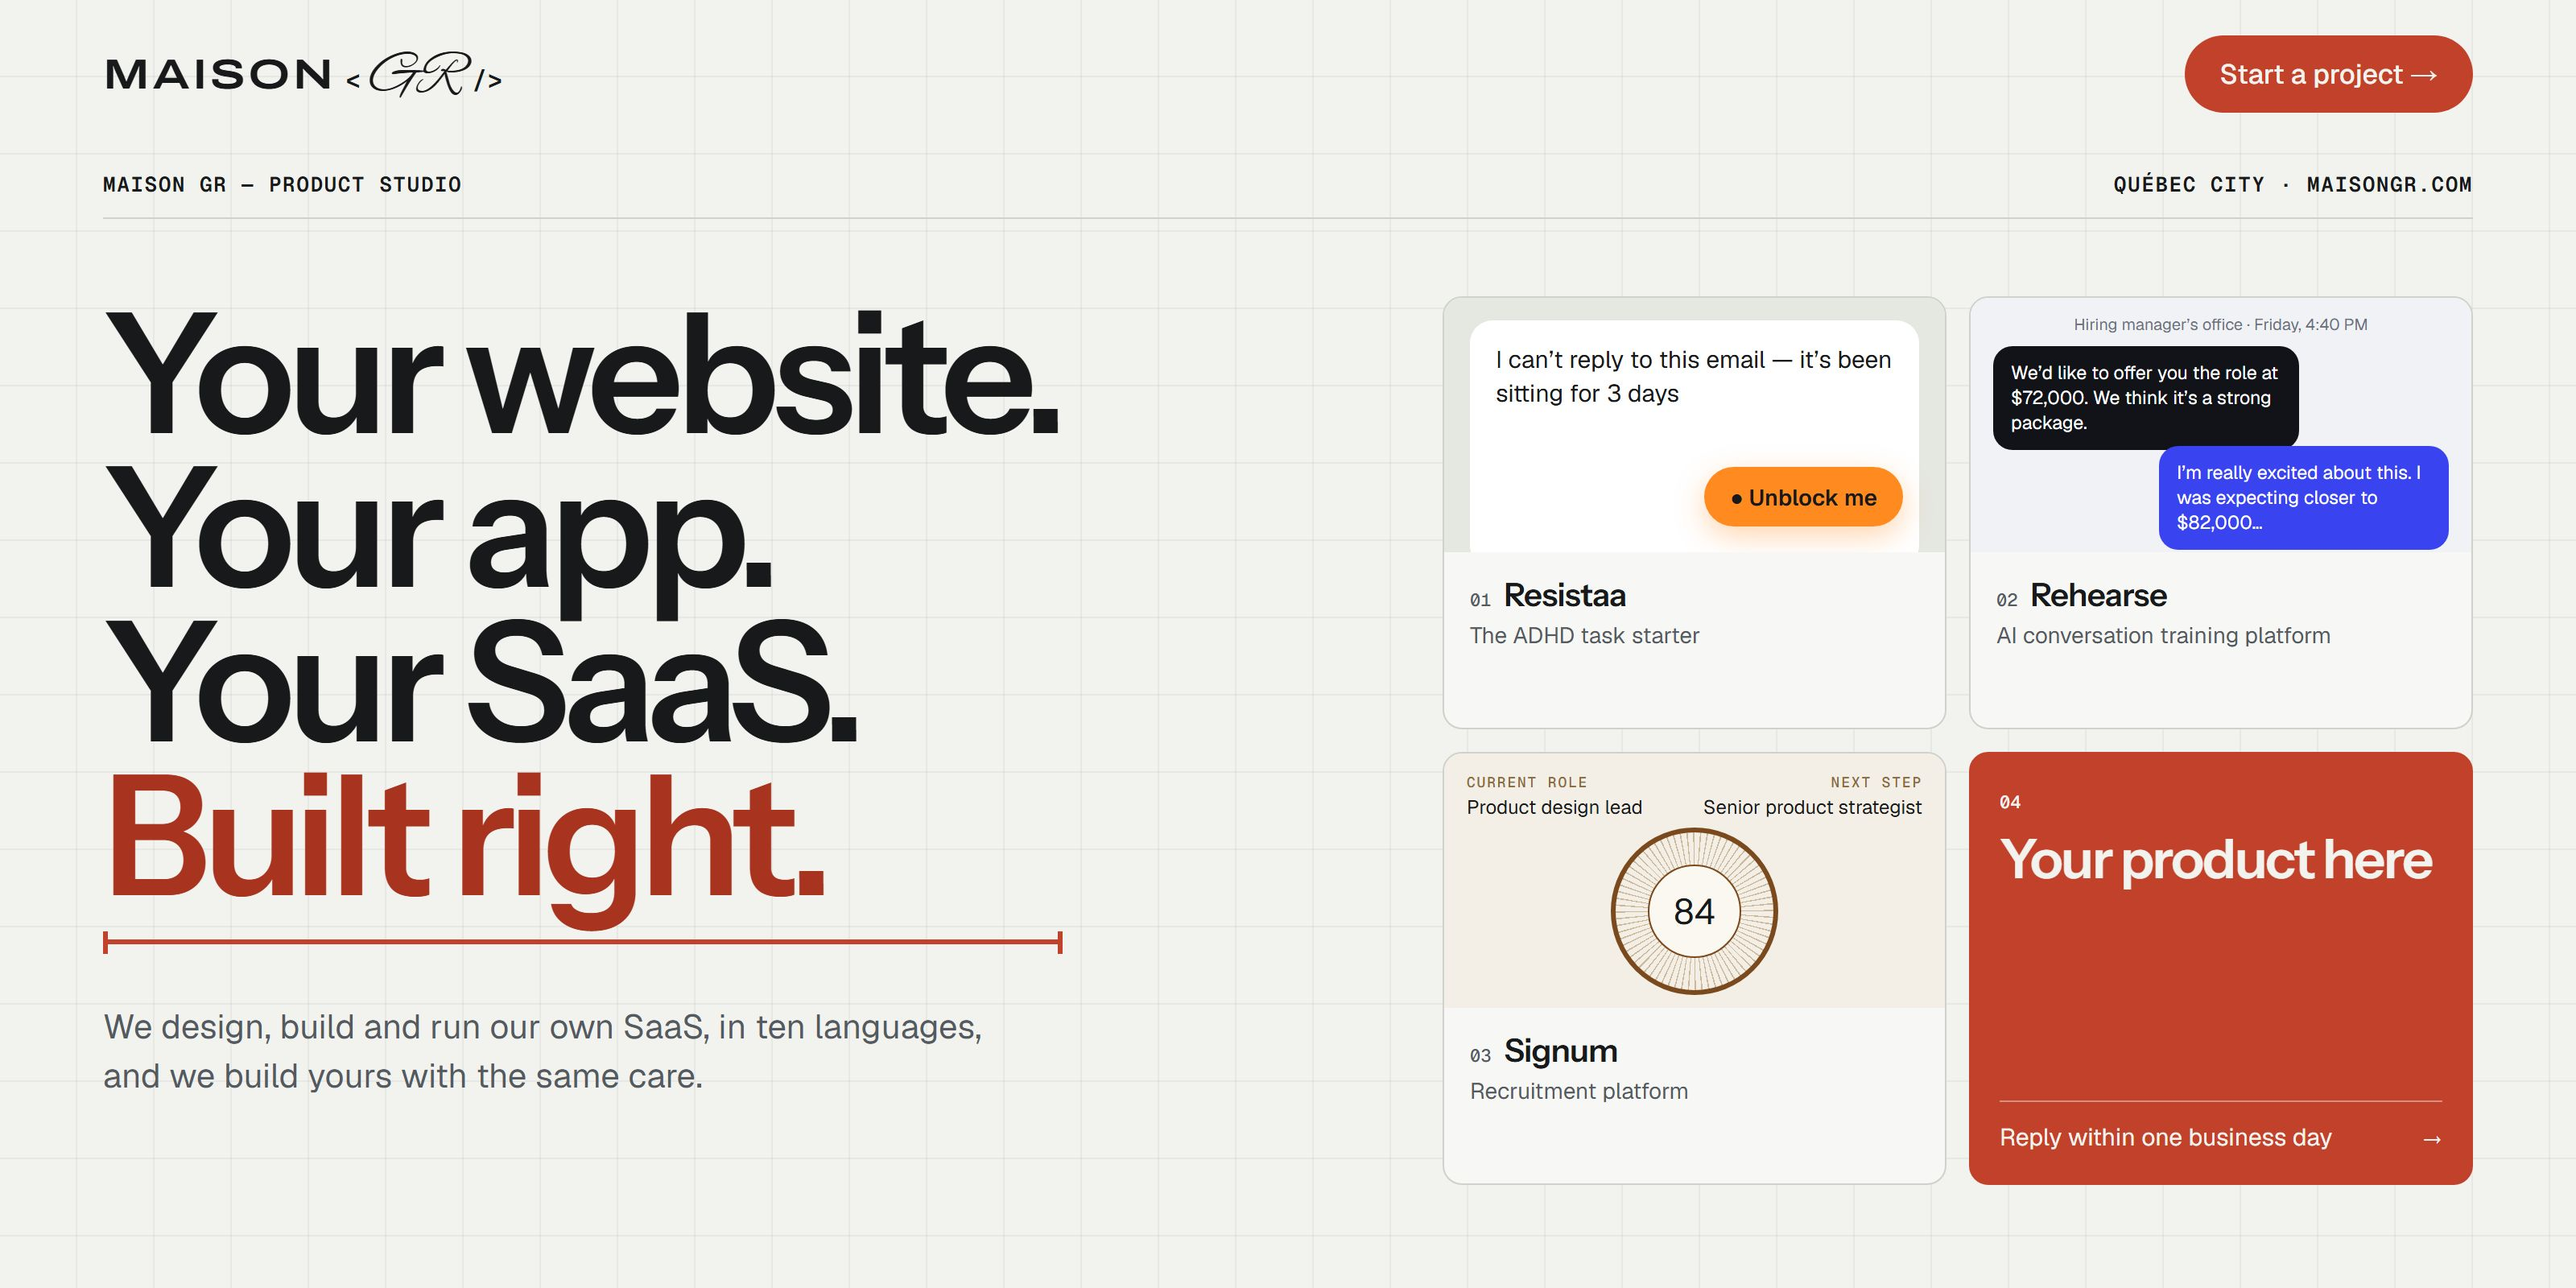
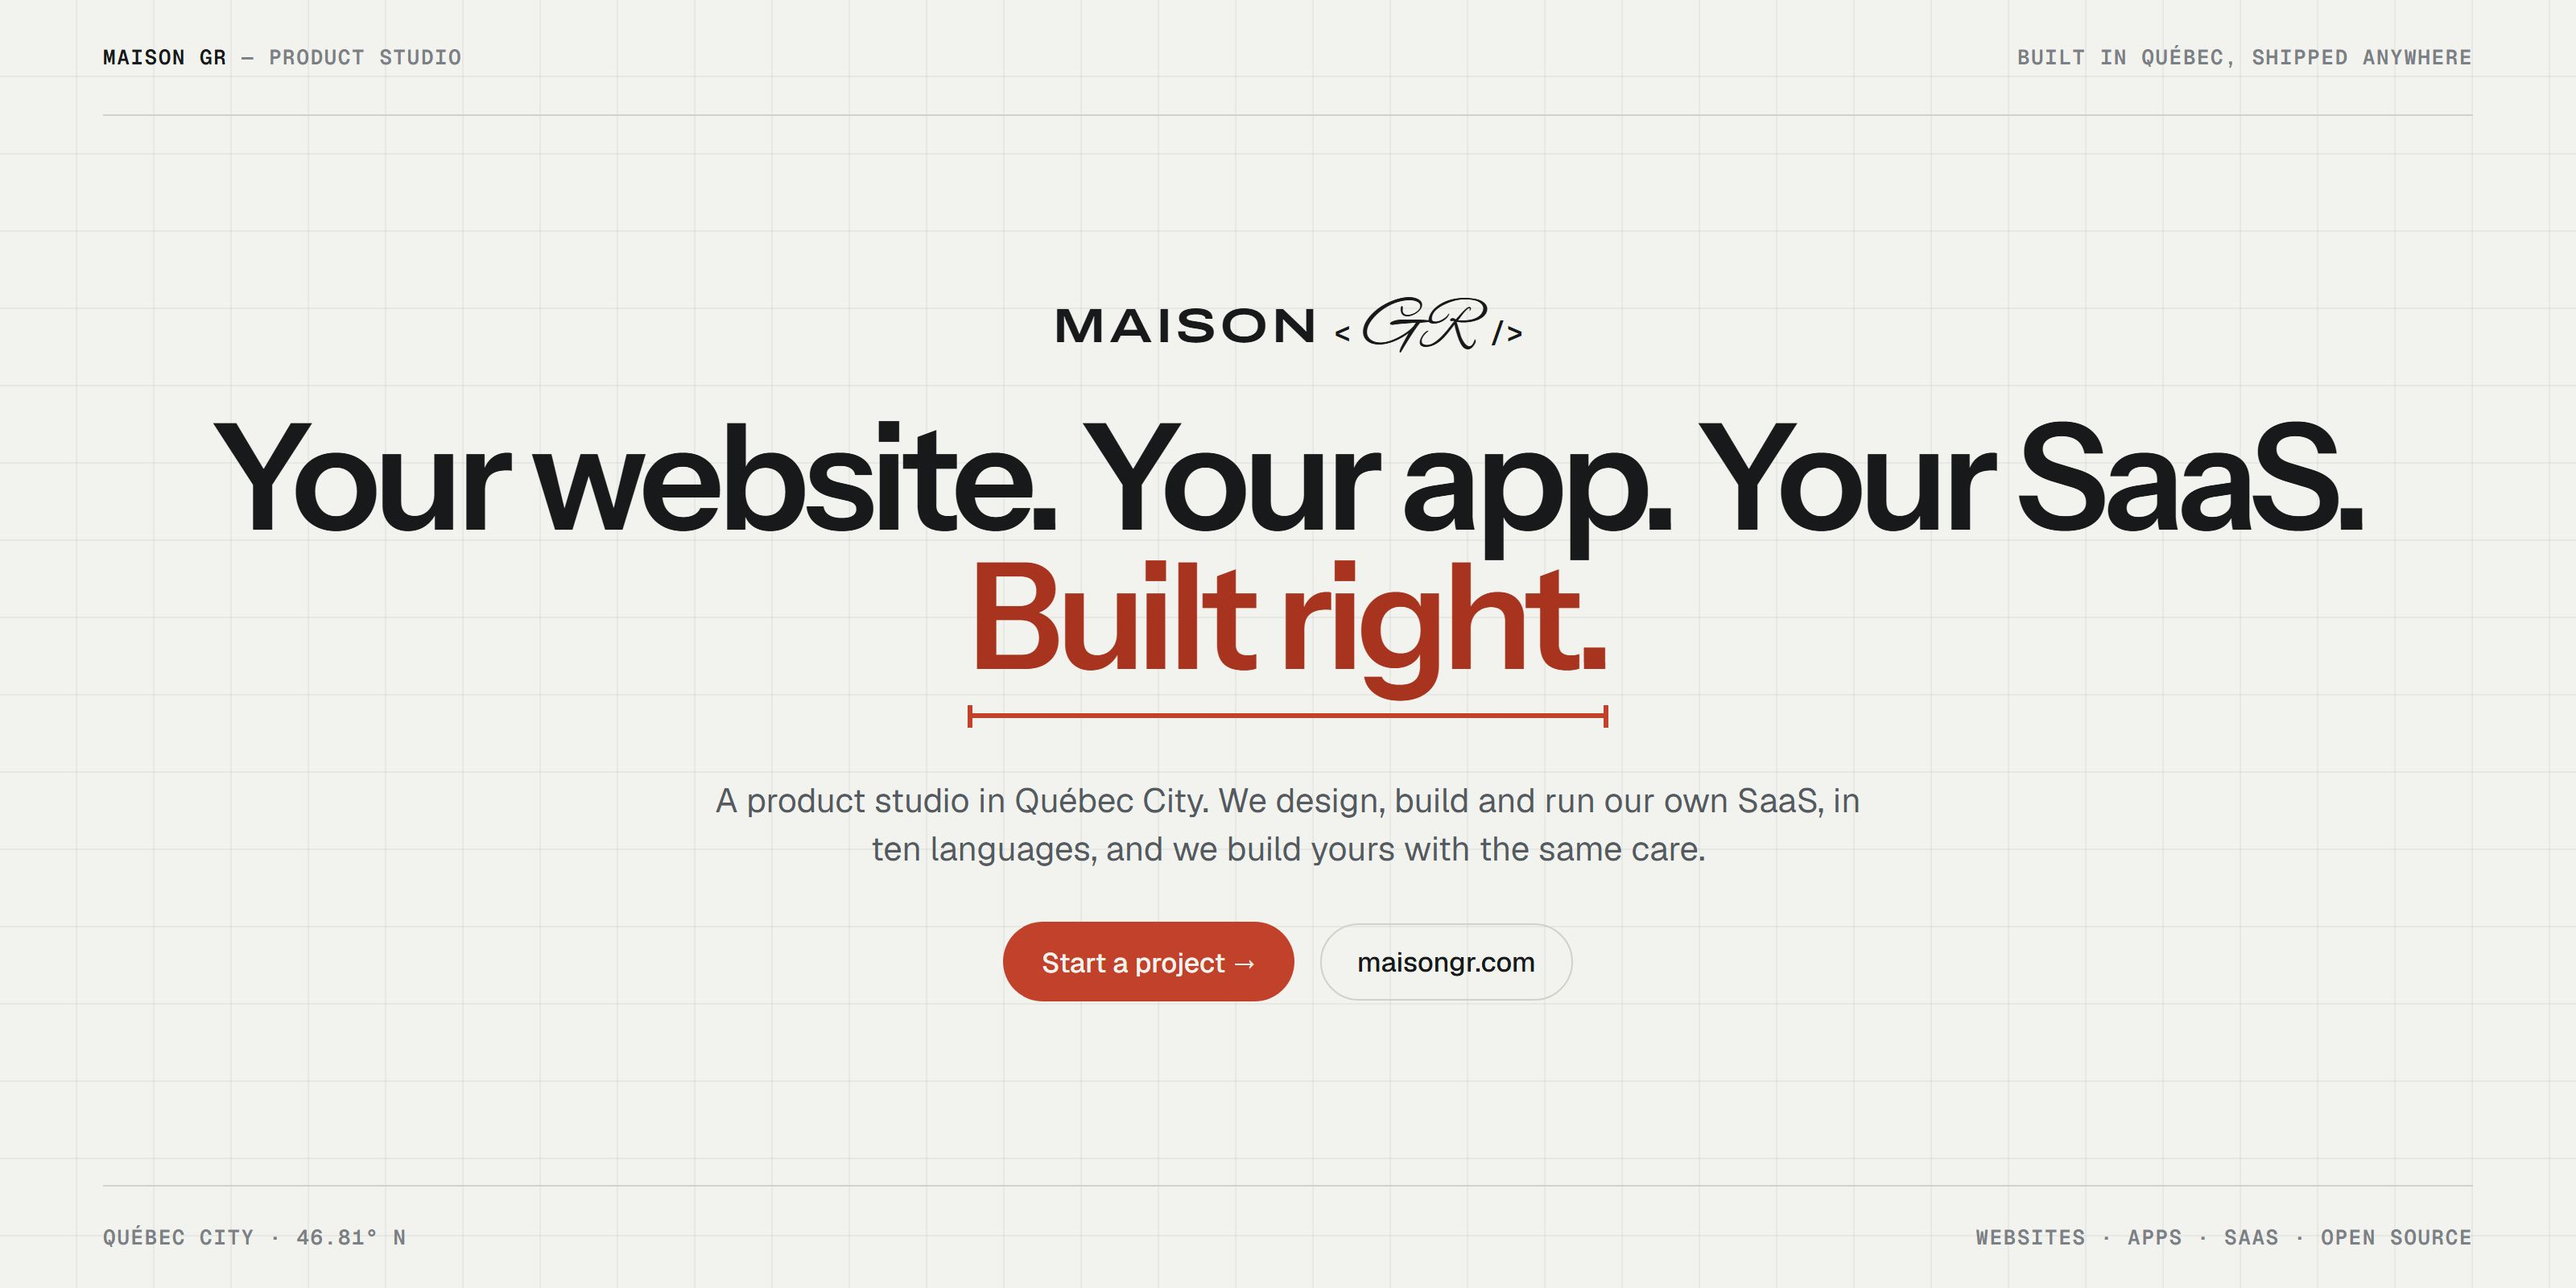
docs: centred profile header, the products left to the cards below (#11)

diff --git a/profile/README.md b/profile/README.md
@@ -1,7 +1,7 @@
 <a href="https://www.maisongr.com">
   <picture>
     <source media="(prefers-color-scheme: dark)" srcset="https://raw.githubusercontent.com/maison-gr/.github/main/profile/assets/header-dark.jpg">
-    <img src="https://raw.githubusercontent.com/maison-gr/.github/main/profile/assets/header-light.jpg" width="100%" alt="Maison GR, product studio in Québec City. Your website. Your app. Your SaaS. Built right. Our products: Resistaa, the ADHD task starter; Rehearse, AI conversation training; Signum, recruitment. 04: your product here.">
+    <img src="https://raw.githubusercontent.com/maison-gr/.github/main/profile/assets/header-light.jpg" width="100%" alt="Maison GR, product studio. Your website. Your app. Your SaaS. Built right. A product studio in Québec City: we design, build and run our own SaaS, in ten languages, and we build yours with the same care.">
   </picture>
 </a>
 
